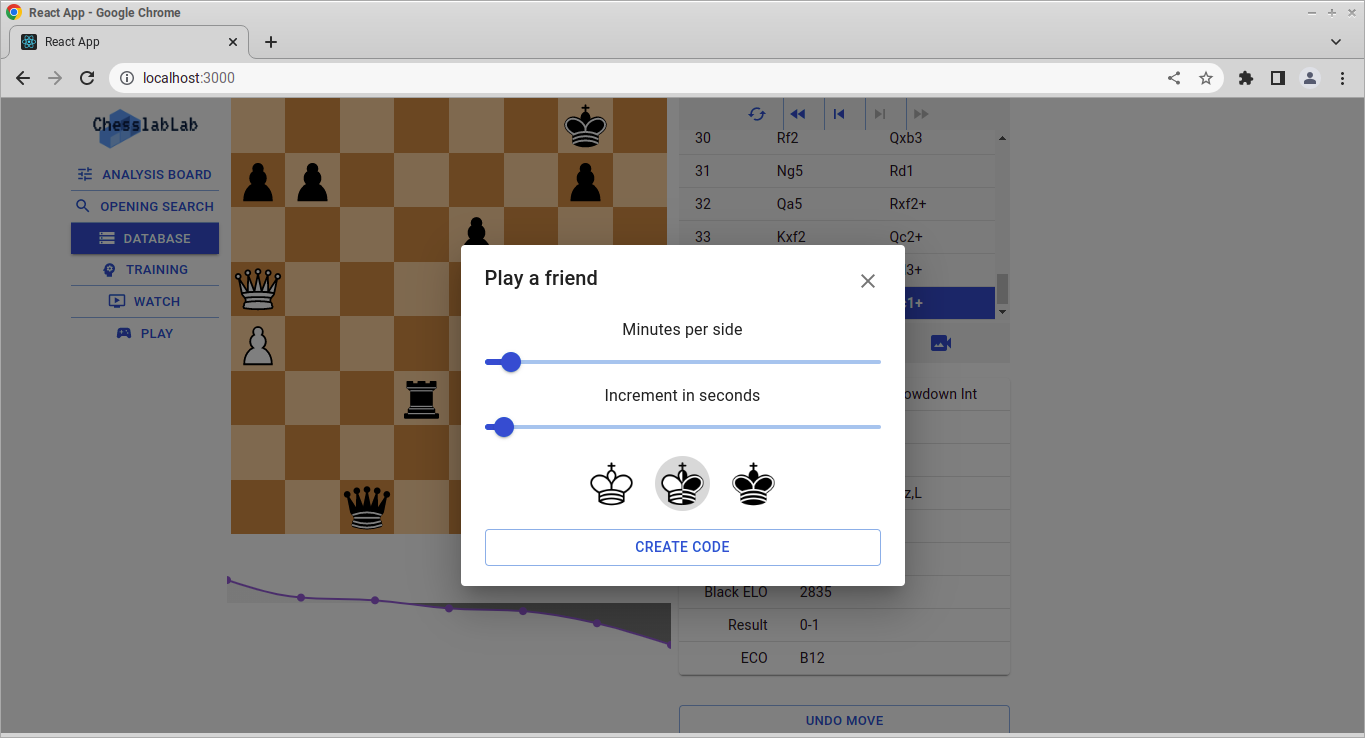
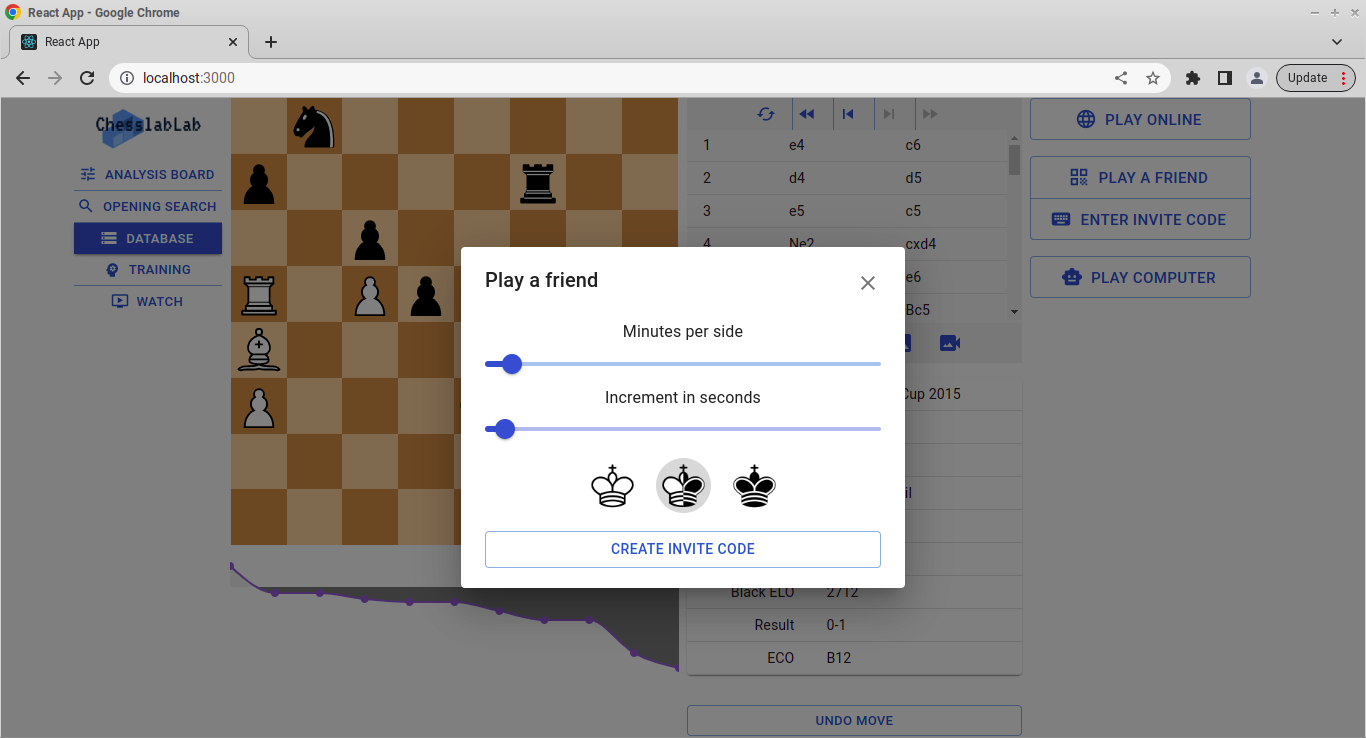
Improved the docs

diff --git a/README.md b/README.md
@@ -25,13 +25,13 @@ Figure 3. Database > Search
 Figure 4. Heuristics of a game
 
 ![Figure 5](/src/assets/img/docs/figure-05.png)
-Figure 5. Play > Play Online
+Figure 5. Play Online
 
 ![Figure 6](/src/assets/img/docs/figure-06.png)
-Figure 6. Play > Create invite code
+Figure 6. Play a Friend
 
 ![Figure 7](/src/assets/img/docs/figure-07.png)
-Figure 7. Play > Play Computer
+Figure 7. Play Computer
 
 ### Setup
 
